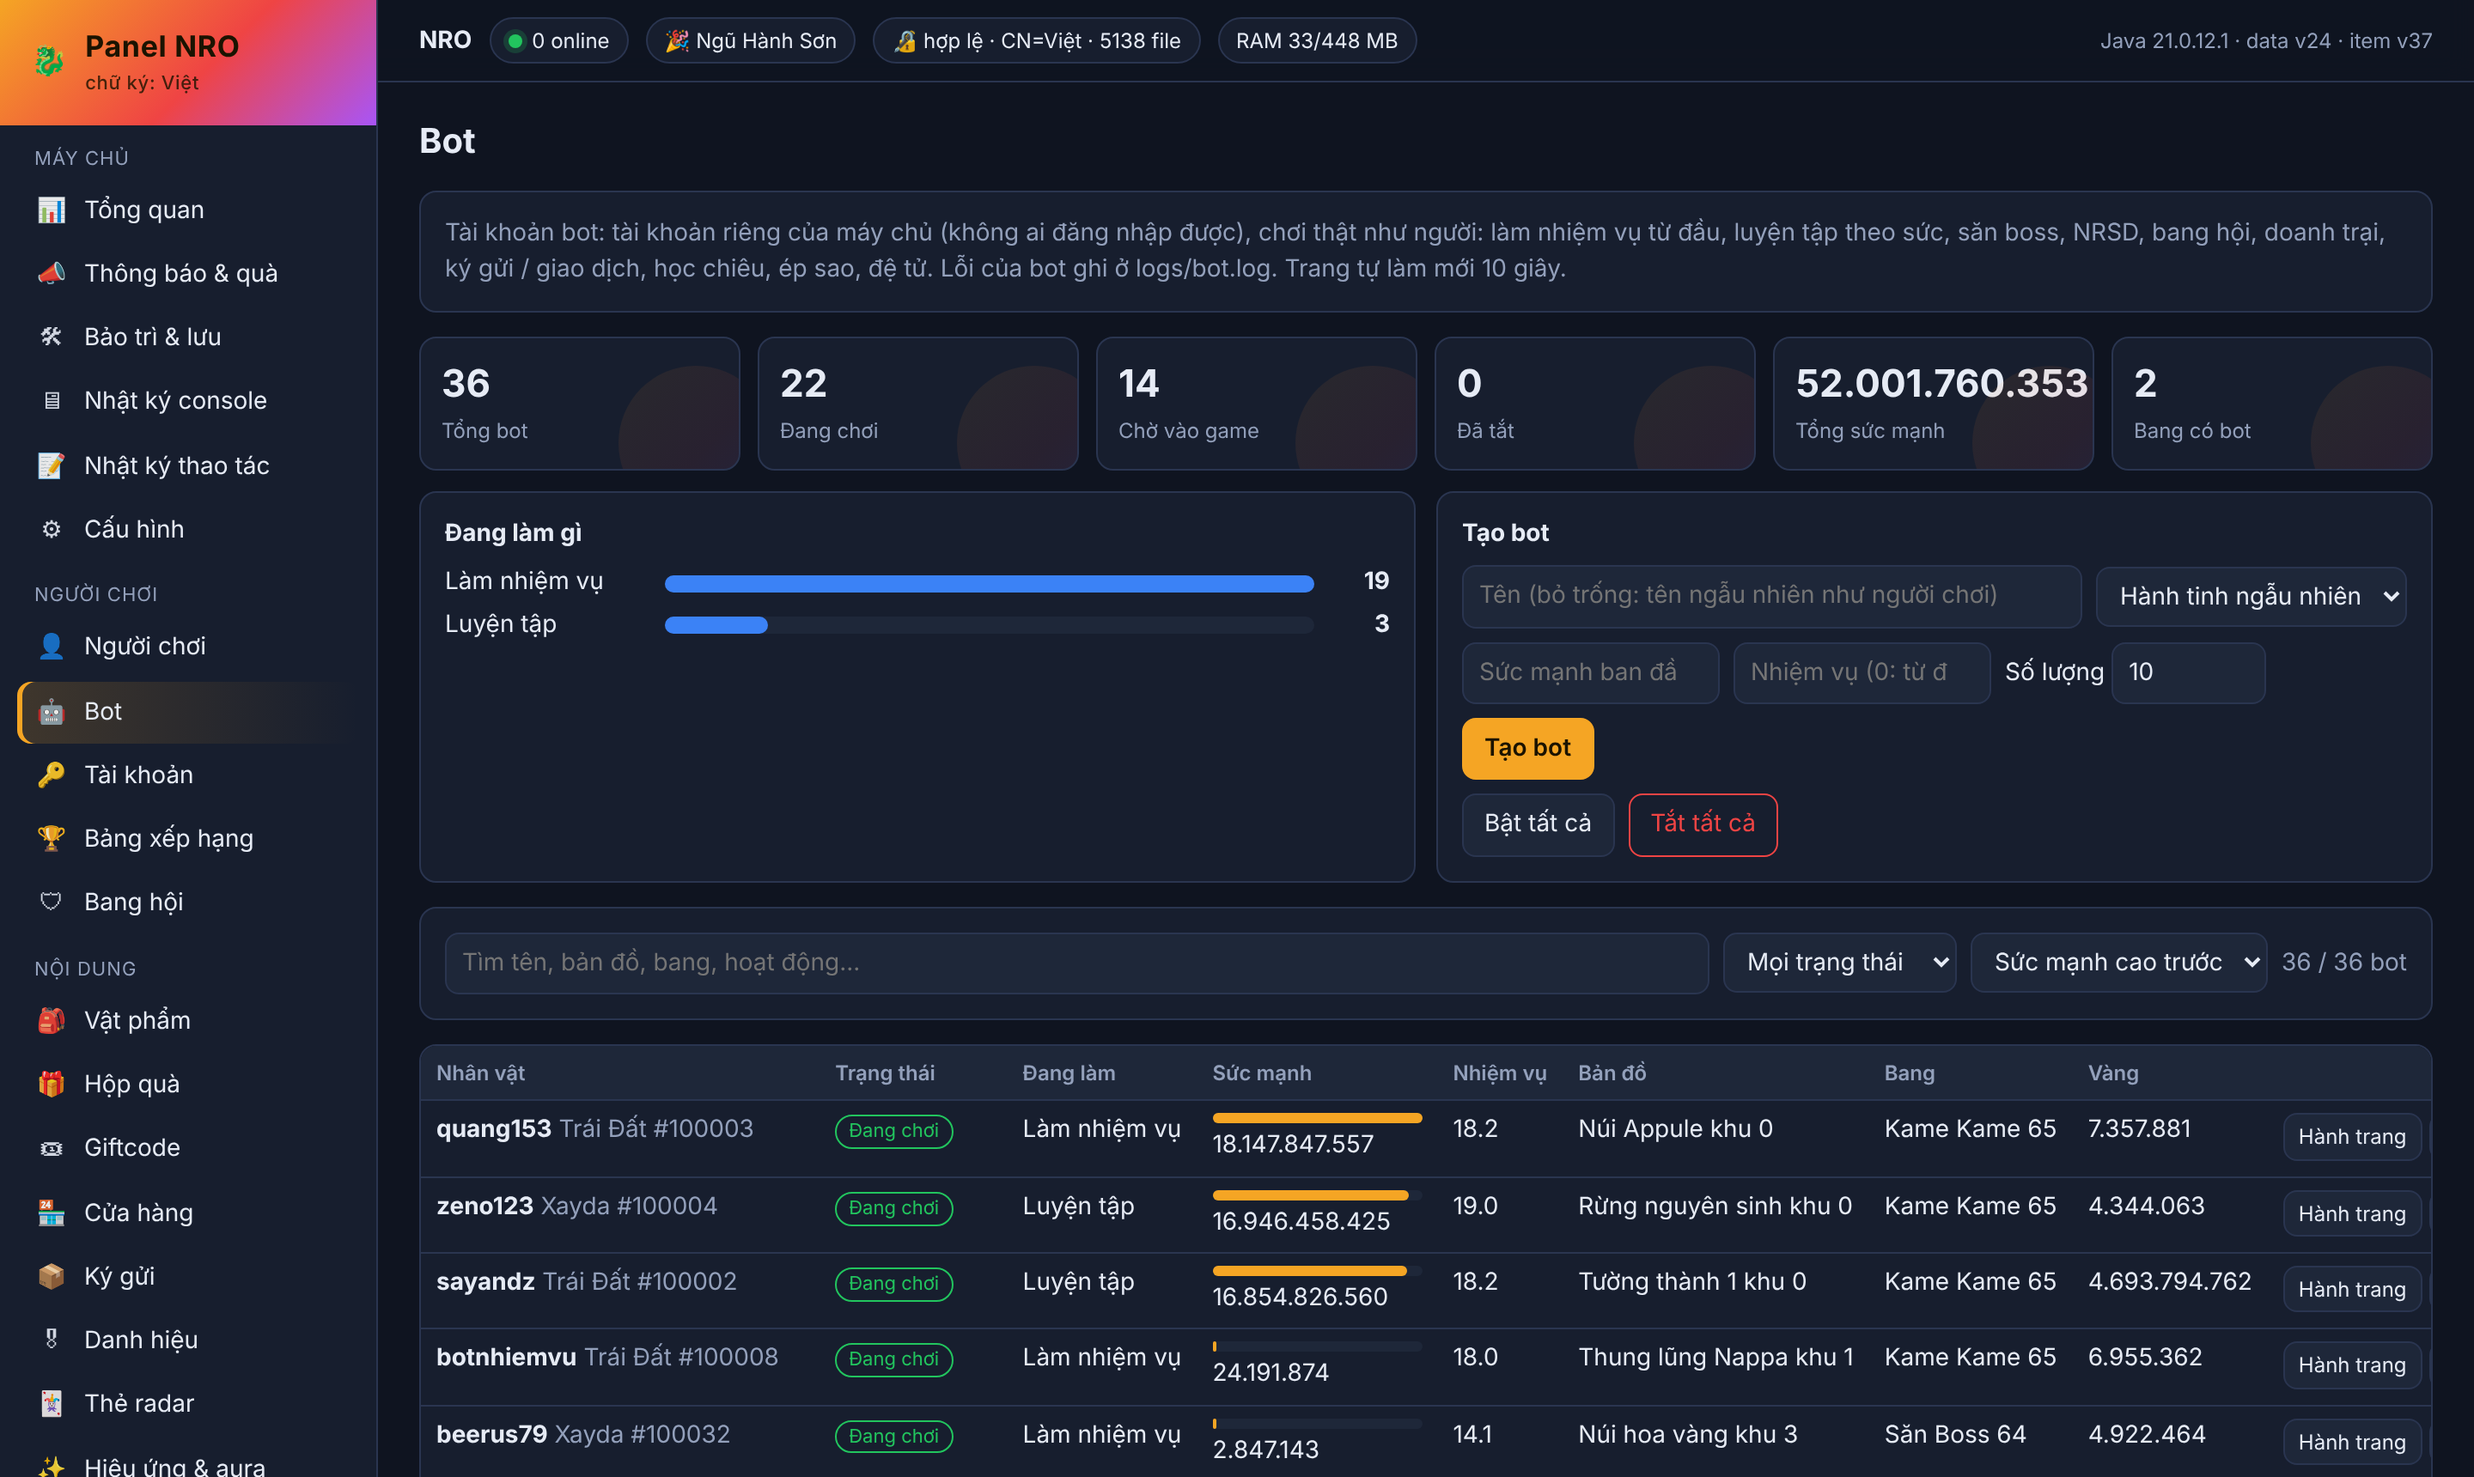
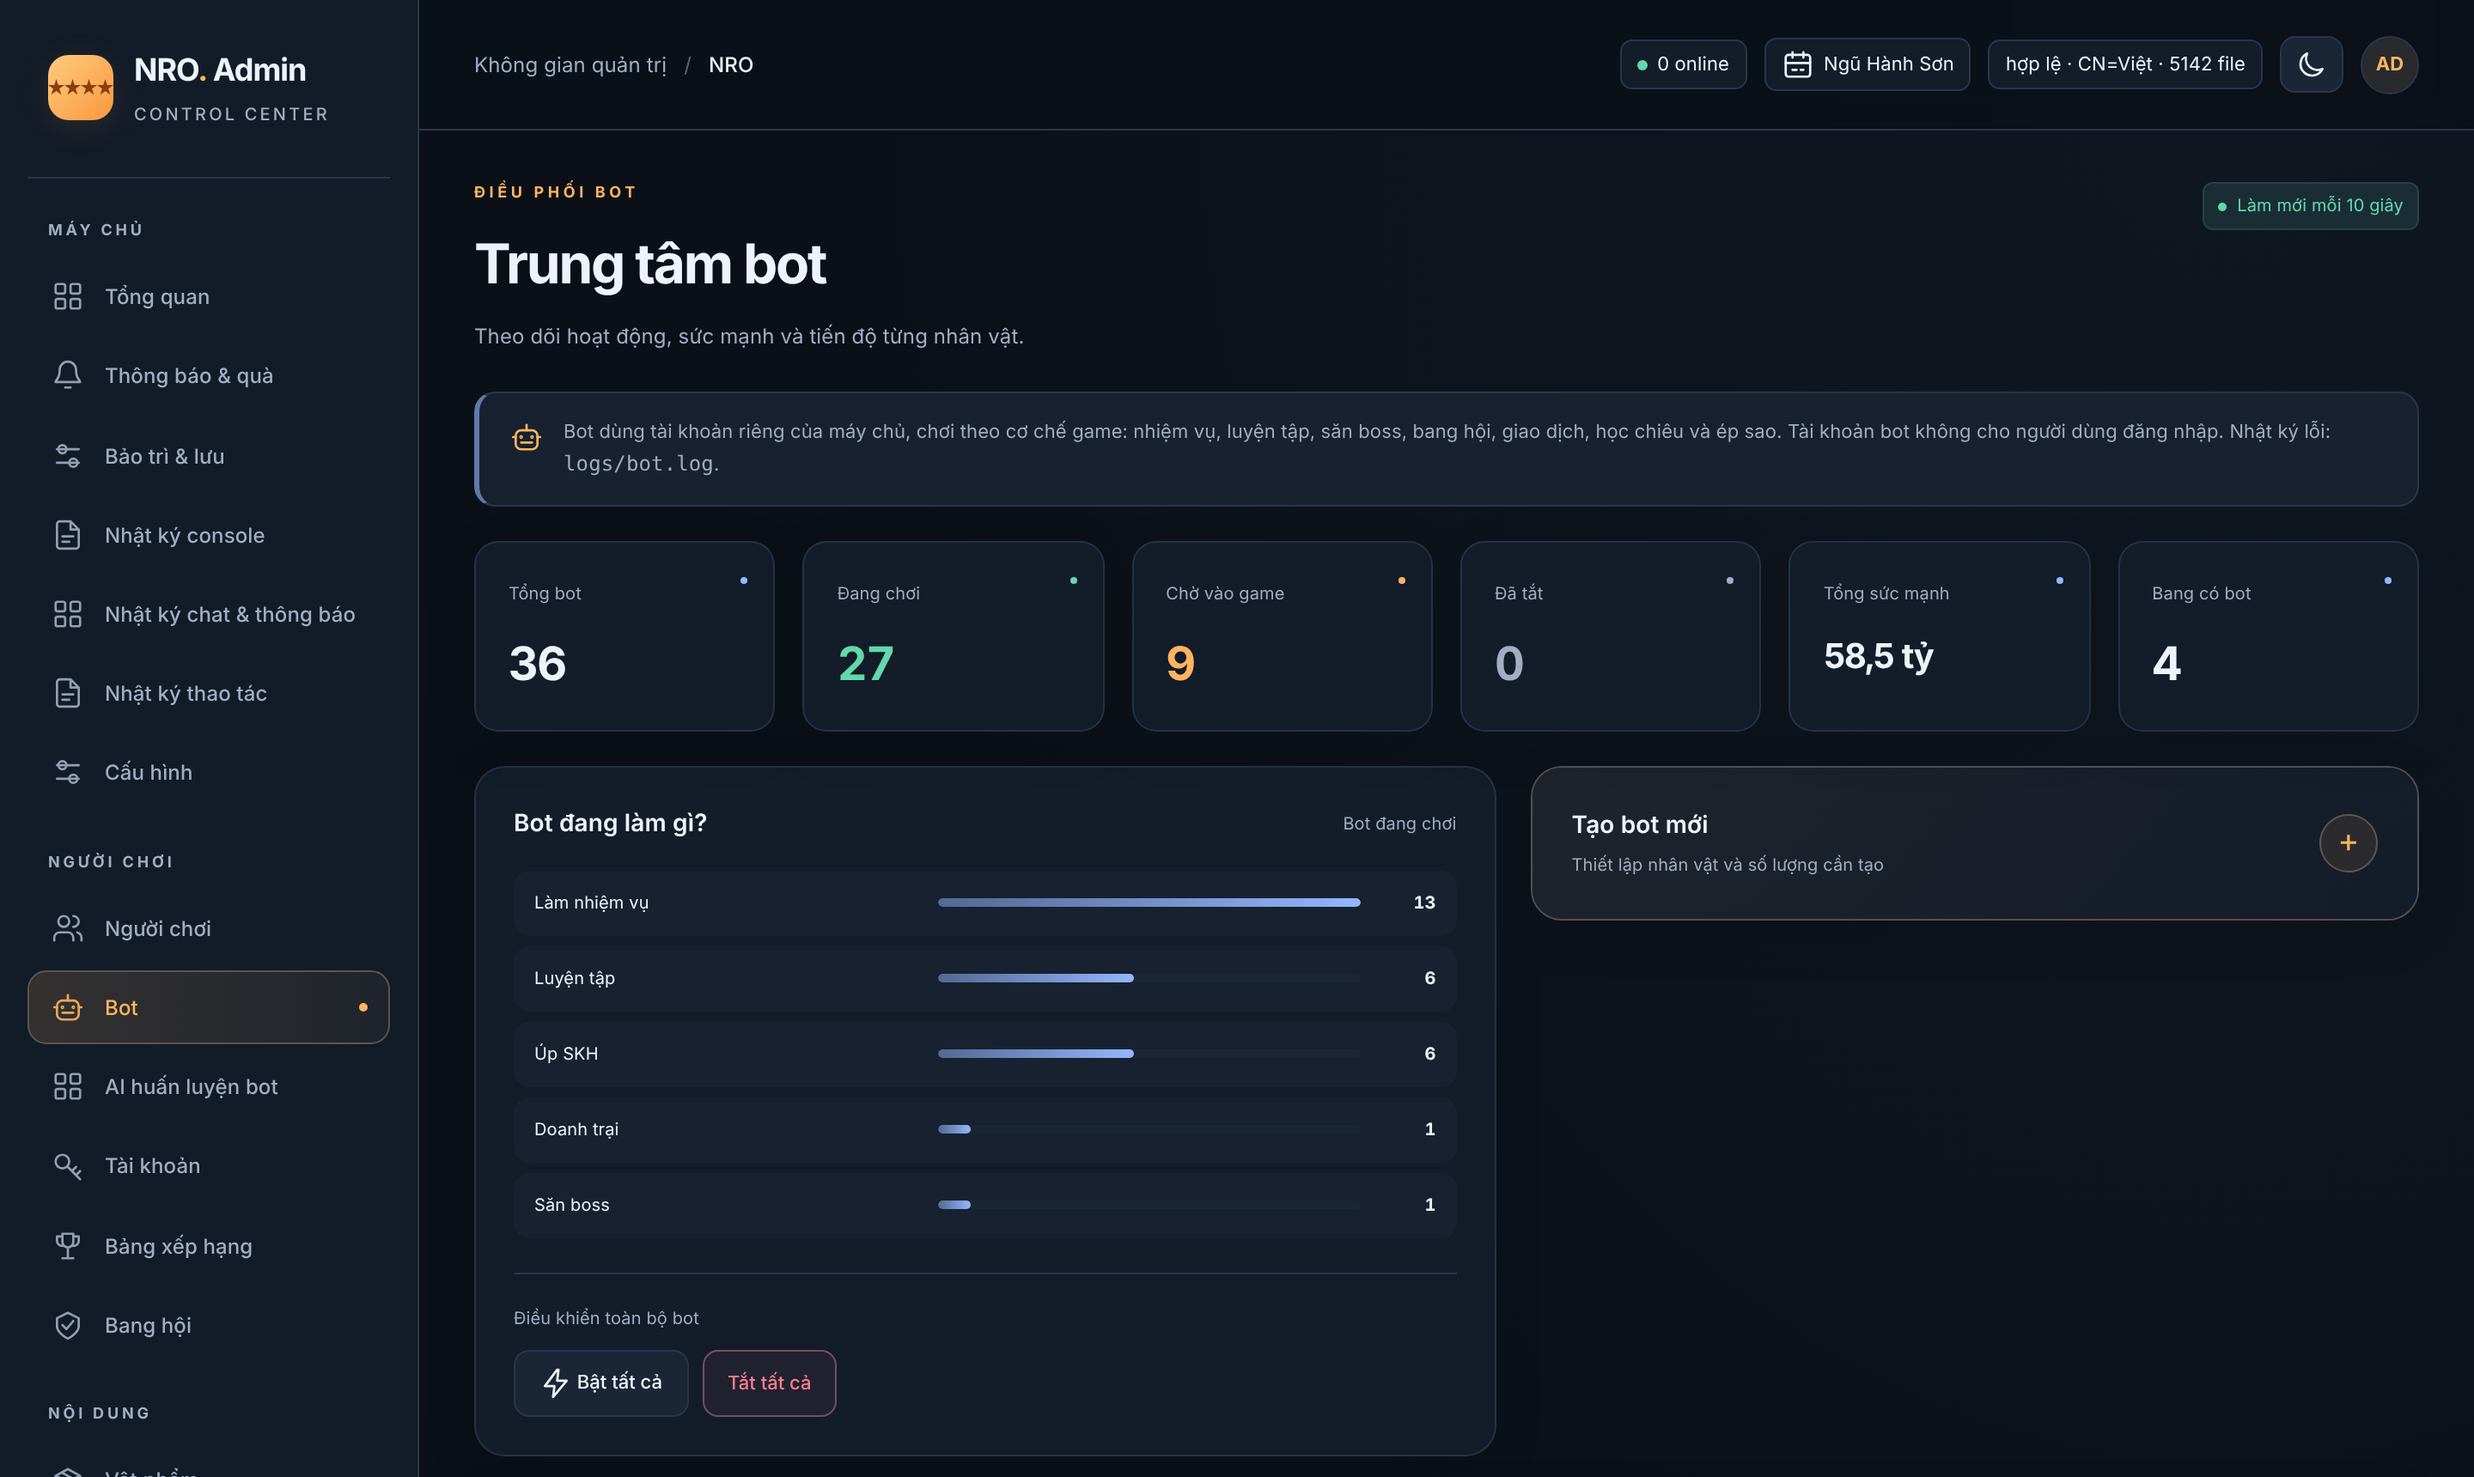
README: tính năng mới (AI tự học, mở giới hạn bằng ngọc, 15 khu, nhật ký chat), ảnh panel V3, nhãn bản phát hành
Claude-Session: https://claude.ai/code/session_01PvUBaoy18ESPFcDz8R8zFC

diff --git a/README.md b/README.md
@@ -2,12 +2,13 @@
 
 # 🐉 NRO Project
 
-**Máy chủ game Ngọc Rồng Online viết bằng Java: kèm panel quản trị web, bot chơi như người thật và hệ thống sự kiện theo mùa.**
+**Máy chủ game Ngọc Rồng Online viết bằng Java: panel quản trị web, bot chơi như người thật có AI tự học, và hệ thống sự kiện theo mùa.**
 
 ![Java](https://img.shields.io/badge/Java-21_LTS-ED8B00?logo=openjdk&logoColor=white)
 ![MySQL](https://img.shields.io/badge/MySQL-5.7%20%7C%208.0-4479A1?logo=mysql&logoColor=white)
 ![Netty](https://img.shields.io/badge/Netty-4.1-2E7D32)
 ![Client](https://img.shields.io/badge/Client-Android%20%7C%20PC%20%7C%20J2ME-6A1B9A)
+![Release](https://img.shields.io/github/v/release/Eng77-gif/Nro_Project?label=B%E1%BA%A3n%20m%E1%BB%9Bi%20nh%E1%BA%A5t&color=F57C00)
 ![Status](https://img.shields.io/badge/Tr%E1%BA%A1ng%20th%C3%A1i-%C4%91ang%20ph%C3%A1t%20tri%E1%BB%83n-F9A825)
 
 [Tính năng](#-tính-năng) · [Ảnh chụp](#-ảnh-chụp) · [Cài đặt](#-cài-đặt-nhanh) · [Cấu hình](#-cấu-hình) · [Cấu trúc](#-cấu-trúc-thư-mục) · [Tài liệu](#-tài-liệu)
@@ -27,6 +28,9 @@
 - Boss theo giờ, boss sự kiện, Hirudegarn, Broly (15 tỷ HP)
 - Doanh trại, Ngọc Rồng Sao Đen, Đại hội võ thuật, Siêu hạng
 - Set kích hoạt, sao pha lê, bông tai cấp 2/3, đệ tử 2
+- Mở giới hạn sức mạnh bằng ngọc (100 / 200 ngọc mỗi lần)
+- Nhiệm vụ hằng ngày 4 mức, mức Cực khó thưởng 1.000 - 3.000 ngọc
+- Mỗi map 15 khu, Đảo Kamê 30 khu
 - Chỉ số chiến đấu và tiền tệ dùng `long`: sát thương vượt 2,1 tỷ
 
 </td>
@@ -36,9 +40,10 @@
 - Tài khoản bot riêng, không ai đăng nhập được
 - Làm nhiệm vụ từ đầu, luyện tập theo sức, săn boss, NRSD
 - Lập và vào bang hội, đi doanh trại, ký gửi, giao dịch
-- Học chiêu, ép sao theo lối chơi, tự rút kinh nghiệm chọn map
+- Cộng tiềm năng, học chiêu, ép sao theo lối chơi
+- Chỉ đi map đánh nổi quái, tự rút kinh nghiệm chọn map
 - Chơi theo ca (online / offline), trả lời khi người chơi gọi tên
-- **AI tự học** (tự viết, không dùng model ngoài): học tăng cường chọn việc theo sức, xem và chỉnh ở panel
+- **AI tự học** (tự viết, không dùng model ngoài): học tăng cường chọn việc theo bậc sức mạnh, xem và chỉnh ở panel
 
 </td>
 </tr>
@@ -50,13 +55,14 @@
 - Shop sự kiện, đổi điểm, đua top có thưởng
 - Thông báo top 1 - 10 khi đăng nhập
 - Chợ ký gửi đồ sự kiện riêng (NPC King Furry)
+- Danh hiệu sự kiện dùng hiệu ứng thật (Phá Cỗ Trung Thu...)
 
 </td>
 <td valign="top">
 
 ### 🛡 Vận hành
 - Mạng Netty, chống DDoS và giới hạn kết nối mỗi IP
-- Panel web quản trị (không cần cài thêm)
+- Panel web quản trị V3 (không cần cài thêm), có nhật ký chat thế giới và thông báo server
 - Chạy được trên VPS 1 - 2 GB RAM
 - Tự nâng cấp cơ sở dữ liệu khi khởi động (migration)
 
@@ -72,9 +78,17 @@
 
 <img src="docs/images/panel-dashboard.png" alt="Panel tổng quan" width="900">
 
-**Panel: quản lý bot**
+**Panel: trung tâm bot**
 
 <img src="docs/images/panel-bots.png" alt="Panel quản lý bot" width="900">
+
+**Panel: AI huấn luyện bot**
+
+<img src="docs/images/panel-ai.png" alt="Panel AI huấn luyện bot" width="900">
+
+**Panel: nhật ký chat & thông báo**
+
+<img src="docs/images/panel-chatlog.png" alt="Panel nhật ký chat và thông báo" width="900">
 
 </div>
 
